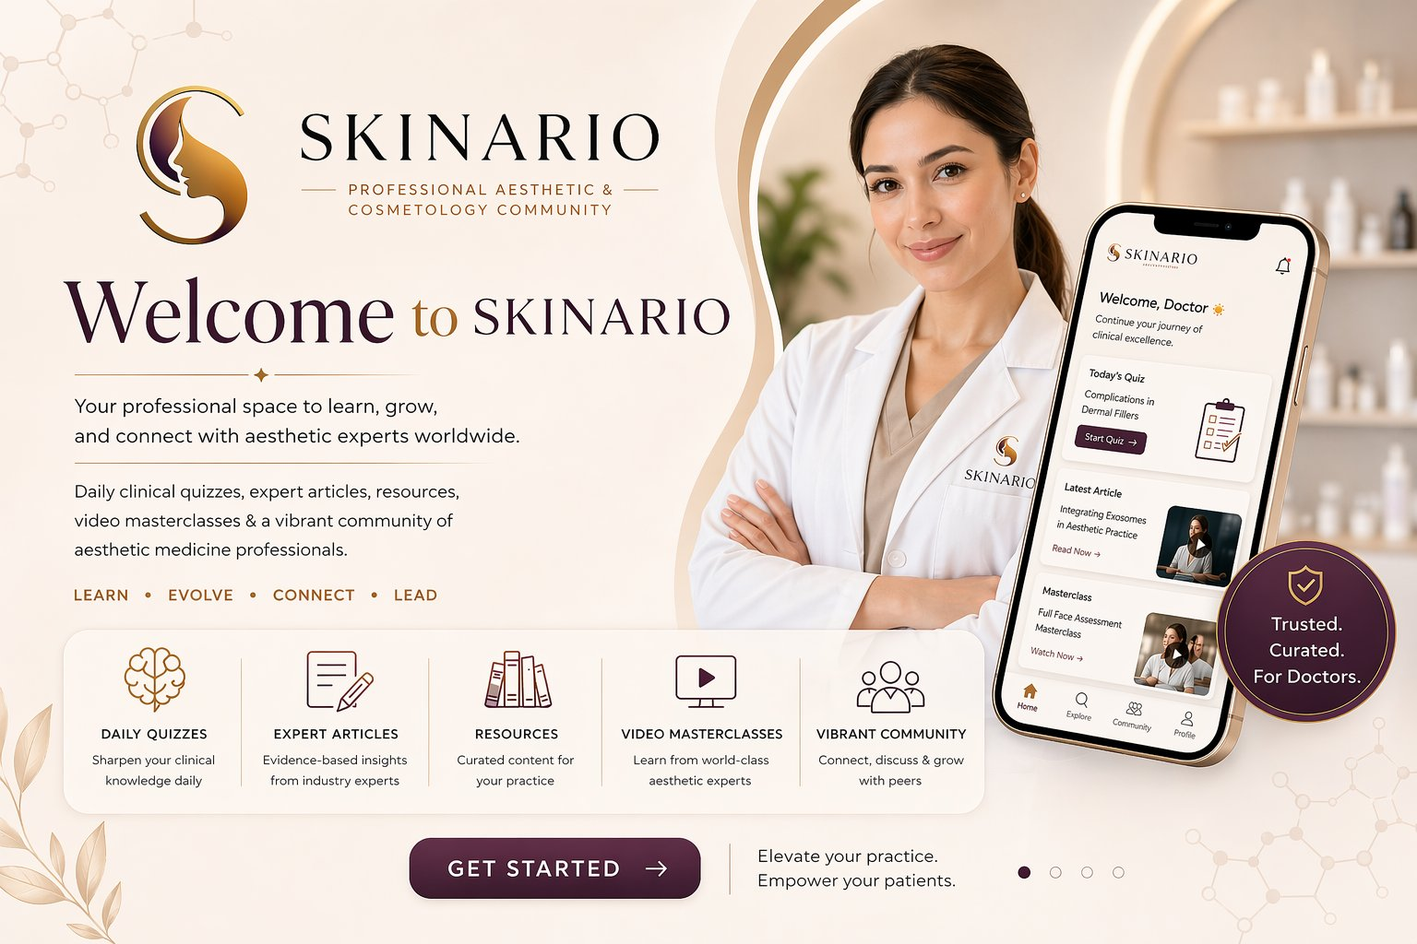
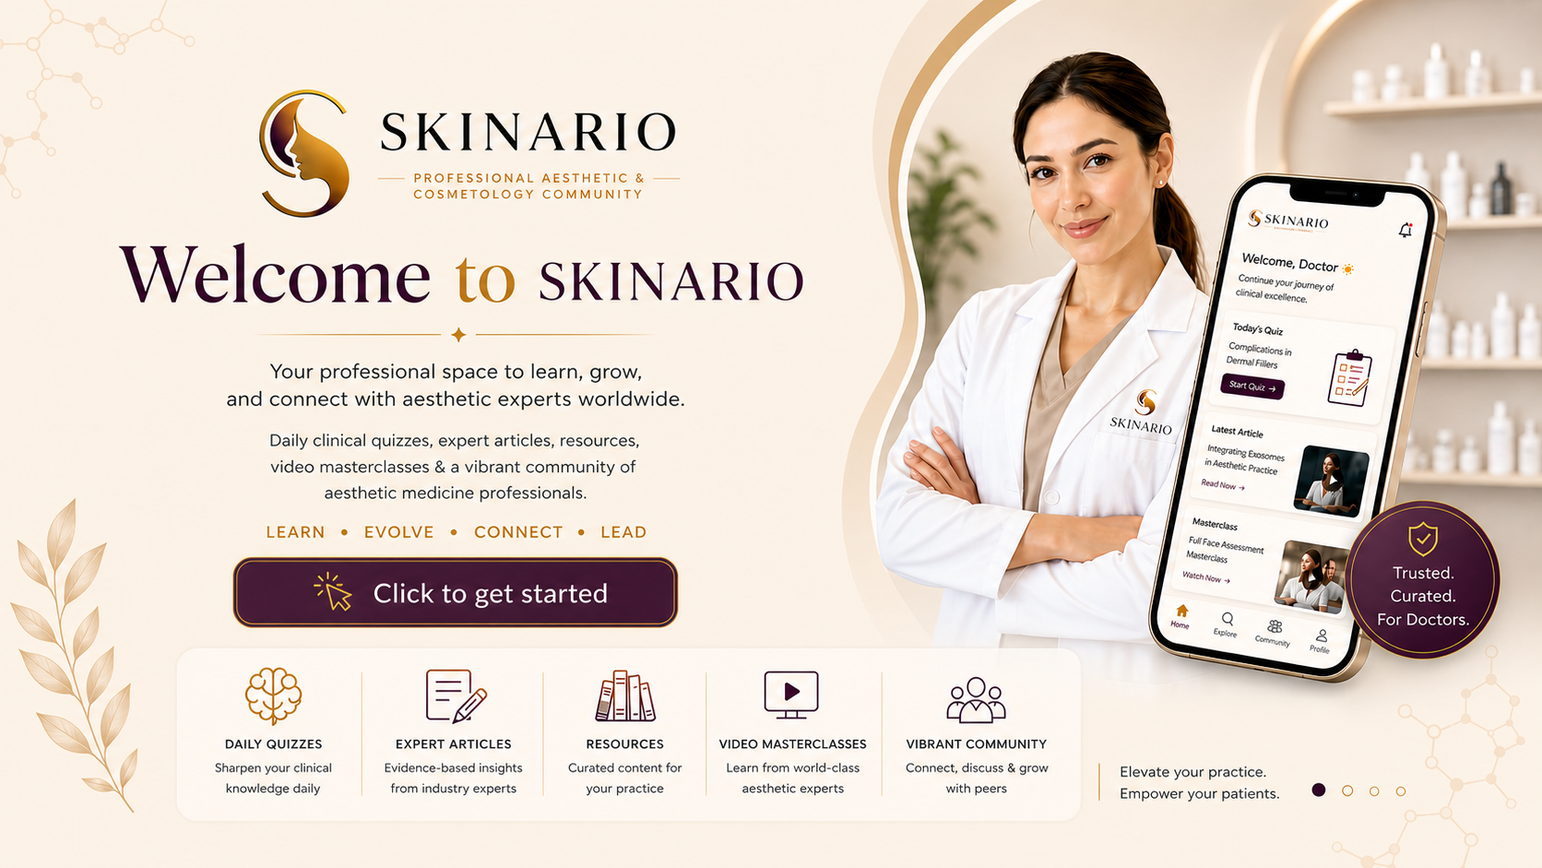
Welcome screen, image uploads, cursor fix

diff --git a/src/App.jsx b/src/App.jsx
@@ -37,7 +37,7 @@ const LikeBtn=({liked,count,onToggle})=>(
   </button>
 );
 
-// ═══ IMAGE UPLOAD COMPONENT ═══
+// ═══ MULTI-IMAGE UPLOAD (used in forum/cases) ═══
 const ImgUpload=({images,setImages,uploading,setUploading})=>{
   const fileRef=useRef();
   const handleFile=async(e)=>{
@@ -82,6 +82,61 @@ const ImgGallery=({images})=>{
   </>)
 };
 
+// ═══ ADMIN SINGLE-IMAGE FIELD (for cover/thumbnail in articles & resources) ═══
+const AdminImgField=({value,onChange})=>{
+  const fileRef=useRef();
+  const[busy,setBusy]=useState(false);
+  const handleFile=async(e)=>{
+    const f=e.target.files?.[0];if(!f)return;
+    setBusy(true);
+    try{
+      const path=`covers/${Date.now()}_${f.name}`;
+      const sRef=ref(storage,path);
+      await uploadBytes(sRef,f);
+      const url=await getDownloadURL(sRef);
+      onChange(url);
+    }catch(err){console.error("Upload error:",err);alert("Upload failed")}
+    setBusy(false);
+    if(fileRef.current)fileRef.current.value="";
+  };
+  return(<div>
+    {value&&<div style={{position:"relative",width:140,height:90,borderRadius:8,overflow:"hidden",border:"1px solid "+T.border,marginBottom:6}}>
+      <img src={value} style={{width:"100%",height:"100%",objectFit:"cover"}}/>
+      <button onClick={()=>onChange("")} style={{position:"absolute",top:3,right:3,width:20,height:20,borderRadius:"50%",background:"rgba(0,0,0,.65)",color:"#fff",border:"none",fontSize:".65rem",cursor:"pointer"}}>✕</button>
+    </div>}
+    <input ref={fileRef} type="file" accept="image/*" onChange={handleFile} style={{display:"none"}}/>
+    <button onClick={()=>fileRef.current?.click()} disabled={busy} style={{...T.btnO,...T.btnSm,opacity:busy?.5:1}}>{busy?"⏳ Uploading...":value?"🔄 Replace image":"📷 Upload image"}</button>
+  </div>)
+};
+
+// ═══ ADMIN FORM (moved outside App to fix cursor focus bug) ═══
+const AdminForm=({type,fields,edForm,setEdForm,onSave})=>{
+  const d=edForm?.data||{};
+  const set=(k,v)=>setEdForm(p=>({...p,data:{...p.data,[k]:v}}));
+  return(<div style={{...T.card,borderLeft:"3px solid "+T.teal}}>
+    <h4 style={{color:T.teal,fontWeight:700,marginBottom:12}}>{edForm?.editing?"Edit":"New"} {type}</h4>
+    {fields.map(([k,l,tp])=><div key={k} style={{marginBottom:10}}>
+      <label style={{display:"block",fontSize:".75rem",color:T.teal,marginBottom:4}}>{l}</label>
+      {tp==="textarea"?<textarea value={d[k]||""} onChange={e=>set(k,e.target.value)} style={T.txa}/>
+      :tp==="select"?<select value={d[k]||""} onChange={e=>set(k,e.target.value)} style={T.inp}>{TOPICS.map(t=><option key={t} value={t}>{t}</option>)}<option value="General">General</option></select>
+      :tp==="check"?<label style={{display:"flex",alignItems:"center",gap:6,cursor:"pointer"}}><input type="checkbox" checked={!!d[k]} onChange={e=>set(k,e.target.checked)}/> {l}</label>
+      :tp==="image"?<AdminImgField value={d[k]} onChange={url=>set(k,url)}/>
+      :<input value={d[k]||""} onChange={e=>set(k,e.target.value)} style={T.inp}/>}
+    </div>)}
+    <div style={{display:"flex",gap:8}}><button onClick={onSave} style={T.btn}>{edForm?.editing?"Update":"Create"}</button><button onClick={()=>setEdForm(null)} style={T.btnO}>Cancel</button></div>
+  </div>)
+};
+
+// ═══ CASE COMMENT INPUT (moved outside App to fix cursor focus bug) ═══
+const CaseCmtInput=({caseId,caseObj,addCaseComment})=>{
+  const[txt,setTxt]=useState("");
+  const submit=()=>{addCaseComment(caseId,caseObj,txt);setTxt("")};
+  return(<div style={{display:"flex",gap:6,marginTop:10}}>
+    <input value={txt} onChange={e=>setTxt(e.target.value)} onKeyDown={e=>e.key==="Enter"&&submit()} placeholder="Your thoughts..." style={{...T.inp,borderRadius:20,padding:"9px 14px",fontSize:".82rem",flex:1}}/>
+    <button onClick={submit} style={{...T.btn,...T.btnSm}}>Post</button>
+  </div>)
+};
+
 // ═══ FIRESTORE ═══
 const fbCol=n=>collection(db,n);
 async function fbGetAll(c,ord="date",dir="desc",lim=100){try{const q=query(fbCol(c),orderBy(ord,dir),limit(lim));const s=await getDocs(q);return s.docs.map(d=>({id:d.id,...d.data()}))}catch(e){console.log("fb",c,e);return[]}}
@@ -112,6 +167,7 @@ Return ONLY this JSON, nothing else:
 
 export default function App(){
   const[au,setAu]=useState(null);const[prof,setProf]=useState(null);const[scr,setScr]=useState("loading");const[pg,setPg]=useState("home");
+  const[welcomeSeen,setWelcomeSeen]=useState(()=>localStorage.getItem("sk_welcome")==="1");
   const[quizzes,setQuizzes]=useState([]);const[articles,setArticles]=useState([]);const[resources,setResources]=useState([]);const[videos,setVideos]=useState([]);const[forumPosts,setForumPosts]=useState([]);const[cases,setCases]=useState([]);const[allUsers,setAllUsers]=useState([]);
   const[selD,setSelD]=useState(ds(getIST()));const[selA,setSelA]=useState(null);const[selV,setSelV]=useState(null);const[toast,setToast]=useState(null);const[cmt,setCmt]=useState("");const[ld,setLd]=useState(false);const[aTab,setATab]=useState("stats");
   const[authMode,setAuthMode]=useState("signin");const[authEmail,setAuthEmail]=useState("");const[authPass,setAuthPass]=useState("");const[authName,setAuthName]=useState("");const[authBusy,setAuthBusy]=useState(false);const[authErr,setAuthErr]=useState("");
@@ -137,7 +193,7 @@ export default function App(){
   const doEmailSignup=async()=>{setAuthErr("");if(!authName.trim())return setAuthErr("Enter name");if(!authEmail.trim())return setAuthErr("Enter email");if(authPass.length<6)return setAuthErr("6+ chars");setAuthBusy(true);try{const c=await createUserWithEmailAndPassword(auth,authEmail,authPass);await updateProfile(c.user,{displayName:authName})}catch(e){setAuthErr(e.code==="auth/email-already-in-use"?"Email registered":"Failed")}setAuthBusy(false)};
   const doEmailSignin=async()=>{setAuthErr("");if(!authEmail.trim())return setAuthErr("Enter email");if(!authPass)return setAuthErr("Enter password");setAuthBusy(true);try{await signInWithEmailAndPassword(auth,authEmail,authPass)}catch(e){setAuthErr(e.code==="auth/invalid-credential"?"Wrong email/password":"Failed")}setAuthBusy(false)};
   const doForgot=async()=>{setAuthErr("");if(!authEmail.trim())return setAuthErr("Enter email");setAuthBusy(true);try{await sendPasswordResetEmail(auth,authEmail);sh("📧 Reset sent!");setAuthMode("signin")}catch{setAuthErr("Failed")}setAuthBusy(false)};
-  const doLogout=async()=>{if(confirm("Sign out?"))await signOut(auth)};
+  const doLogout=async()=>{if(confirm("Sign out?")){localStorage.removeItem("sk_welcome");setWelcomeSeen(false);await signOut(auth)}};
   const savePf=async()=>{if(!pf.degree){sh("Degree required");return}const p={name:au.displayName||authName||"Doctor",email:au.email,photo:au.photoURL||"",degree:pf.degree,clinic:pf.clinic,address:pf.address,paid:false,joined:ds(getIST()),initials:uIni,totalCorrect:0,totalAnswered:0,streak:0};await fbSet("users",au.uid,p);localStorage.setItem("sk_p_"+au.uid,JSON.stringify(p));setProf(p);setScr("main");sh("Welcome to SKINARIO!");loadData()};
 
   // ═══ LIKE TOGGLE (works for any collection) ═══
@@ -184,6 +240,17 @@ export default function App(){
 
   if(scr==="loading")return(<div style={{minHeight:"100vh",background:T.bg,display:"flex",alignItems:"center",justifyContent:"center",fontFamily:"system-ui"}}><div style={{textAlign:"center"}}><Logo size={60}/><p style={{color:T.mute,marginTop:12}}>Loading...</p></div></div>);
 
+  // ═══ WELCOME SCREEN (shown once before login — fits screen, click anywhere to enter) ═══
+  if(scr==="login"&&!welcomeSeen)return(
+    <div onClick={()=>{localStorage.setItem("sk_welcome","1");setWelcomeSeen(true)}} style={{height:"100vh",width:"100vw",background:"#f5ede2",display:"flex",alignItems:"center",justifyContent:"center",cursor:"pointer",fontFamily:"system-ui",overflow:"hidden",position:"relative"}} title="Click to enter">
+      <picture style={{display:"flex",alignItems:"center",justifyContent:"center",width:"100%",height:"100%"}}>
+        <source media="(max-width: 768px)" srcSet="/welcome-mobile.png"/>
+        <img src="/welcome-desktop.png" alt="Welcome to SKINARIO — click to enter" style={{maxWidth:"100%",maxHeight:"100%",width:"auto",height:"auto",objectFit:"contain",display:"block"}}/>
+      </picture>
+      <div style={{position:"absolute",bottom:24,right:24,background:"rgba(74,31,61,0.92)",color:"#fff",padding:"10px 22px",borderRadius:999,fontSize:".85rem",fontWeight:600,zIndex:5,pointerEvents:"none",boxShadow:"0 4px 14px rgba(0,0,0,0.2)"}}>👆 Click anywhere to enter</div>
+    </div>
+  );
+
   if(scr==="login")return(
     <div style={{minHeight:"100vh",background:"linear-gradient(160deg,#f8f7f4,#fdf6e3 40%,#e1f5ee 70%,#f8f7f4)",display:"flex",flexDirection:"column",alignItems:"center",justifyContent:"center",padding:20,fontFamily:"system-ui"}}>
       <Logo size={100}/><h1 style={{fontSize:"2.8rem",fontWeight:300,color:T.txt,marginTop:8,letterSpacing:6,fontFamily:"Georgia,serif"}}>SKINARIO</h1>
@@ -224,22 +291,6 @@ export default function App(){
   // ═══ MAIN NAV — added "Cases" section ═══
   const navs=[{id:"home",ic:"🏠",l:"Home"},{id:"quiz",ic:"🧠",l:"Quiz"},{id:"library",ic:"📚",l:"Library"},{id:"videos",ic:"🎥",l:"Videos"},{id:"cases",ic:"🔬",l:"Cases"},{id:"forum",ic:"💬",l:"Forum"},{id:"rank",ic:"🏆",l:"Rank"},{id:"me",ic:"👤",l:"Me"},...(isAdm?[{id:"admin",ic:"⚙",l:"Admin"}]:[])];
 
-  const AdminForm=({type,fields,onSave})=>{const d=edForm?.data||{};const set=(k,v)=>setEdForm(p=>({...p,data:{...p.data,[k]:v}}));
-    return(<div style={{...T.card,borderLeft:"3px solid "+T.teal}}>
-      <h4 style={{color:T.teal,fontWeight:700,marginBottom:12}}>{edForm?.editing?"Edit":"New"} {type}</h4>
-      {fields.map(([k,l,tp])=><div key={k} style={{marginBottom:10}}><label style={{display:"block",fontSize:".75rem",color:T.teal,marginBottom:4}}>{l}</label>
-        {tp==="textarea"?<textarea value={d[k]||""} onChange={e=>set(k,e.target.value)} style={T.txa}/>
-        :tp==="select"?<select value={d[k]||""} onChange={e=>set(k,e.target.value)} style={T.inp}>{TOPICS.map(t=><option key={t} value={t}>{t}</option>)}<option value="General">General</option></select>
-        :tp==="check"?<label style={{display:"flex",alignItems:"center",gap:6,cursor:"pointer"}}><input type="checkbox" checked={!!d[k]} onChange={e=>set(k,e.target.checked)}/> {l}</label>
-        :<input value={d[k]||""} onChange={e=>set(k,e.target.value)} style={T.inp}/>}</div>)}
-      <div style={{display:"flex",gap:8}}><button onClick={onSave} style={T.btn}>{edForm?.editing?"Update":"Create"}</button><button onClick={()=>setEdForm(null)} style={T.btnO}>Cancel</button></div>
-    </div>)};
-
-  // ═══ CASE COMMENT INPUT (local state per case) ═══
-  const CaseCmtInput=({caseId,caseObj})=>{const[txt,setTxt]=useState("");return(
-    <div style={{display:"flex",gap:6,marginTop:10}}><input value={txt} onChange={e=>setTxt(e.target.value)} onKeyDown={e=>{if(e.key==="Enter"){addCaseComment(caseId,caseObj,txt);setTxt("")}}} placeholder="Your thoughts..." style={{...T.inp,borderRadius:20,padding:"9px 14px",fontSize:".82rem",flex:1}}/><button onClick={()=>{addCaseComment(caseId,caseObj,txt);setTxt("")}} style={{...T.btn,...T.btnSm}}>Post</button></div>
-  )};
-
   return(
     <div style={{minHeight:"100vh",background:T.bg,fontFamily:"system-ui",color:T.txt}}>
       <div style={{position:"sticky",top:0,zIndex:100,background:"#ffffffee",backdropFilter:"blur(16px)",borderBottom:"1px solid "+T.border,padding:"6px 24px"}}>
@@ -268,15 +319,18 @@ export default function App(){
         <h3 style={{fontSize:"1.05rem",fontWeight:700,marginBottom:12}}>Latest articles</h3>
         {articles.length===0&&<p style={{color:T.mute}}>No articles yet. Admins can create them from Admin panel.</p>}
         <div style={{display:"grid",gridTemplateColumns:"1fr 1fr",gap:14}}>
-          {articles.slice(0,6).map(a=><div key={a.id} onClick={()=>setSelA(a)} style={{...T.card,cursor:"pointer",marginBottom:0}}>
-            <div style={{display:"flex",gap:5,marginBottom:8}}><span style={T.tag(T.tealBg,T.teal)}>{a.cat||"General"}</span>{a.feat&&<span style={T.tag(T.goldBg,T.goldD)}>Featured</span>}</div>
-            <h4 style={{fontSize:".95rem",fontWeight:600,lineHeight:1.4}}>{a.title}</h4>
-            <p style={{fontSize:".78rem",color:T.txt2,marginTop:6,lineHeight:1.5,display:"-webkit-box",WebkitLineClamp:2,WebkitBoxOrient:"vertical",overflow:"hidden"}}>{a.body}</p>
-            <p style={{fontSize:".72rem",color:T.mute,marginTop:6}}>{a.author||"Admin"} · {fD(a.date)}</p>
+          {articles.slice(0,6).map(a=><div key={a.id} onClick={()=>setSelA(a)} style={{...T.card,cursor:"pointer",marginBottom:0,overflow:"hidden",padding:0}}>
+            {a.cover&&<img src={a.cover} style={{width:"100%",height:140,objectFit:"cover"}}/>}
+            <div style={{padding:18}}>
+              <div style={{display:"flex",gap:5,marginBottom:8}}><span style={T.tag(T.tealBg,T.teal)}>{a.cat||"General"}</span>{a.feat&&<span style={T.tag(T.goldBg,T.goldD)}>Featured</span>}</div>
+              <h4 style={{fontSize:".95rem",fontWeight:600,lineHeight:1.4}}>{a.title}</h4>
+              <p style={{fontSize:".78rem",color:T.txt2,marginTop:6,lineHeight:1.5,display:"-webkit-box",WebkitLineClamp:2,WebkitBoxOrient:"vertical",overflow:"hidden"}}>{a.body}</p>
+              <p style={{fontSize:".72rem",color:T.mute,marginTop:6}}>{a.author||"Admin"} · {fD(a.date)}</p>
+            </div>
           </div>)}
         </div>
       </div>}
-      {pg==="home"&&selA&&<div><button onClick={()=>setSelA(null)} style={{...T.btnO,...T.btnSm,marginBottom:14}}>← Back</button><div style={{...T.card,maxWidth:720}}><span style={T.tag(T.tealBg,T.teal)}>{selA.cat}</span><h2 style={{fontSize:"1.5rem",fontWeight:700,marginTop:10,lineHeight:1.35}}>{selA.title}</h2><p style={{fontSize:".82rem",color:T.mute,marginTop:8}}>{selA.author} · {fD(selA.date)}</p><div style={{marginTop:20,fontSize:"1rem",color:T.txt2,lineHeight:1.9,whiteSpace:"pre-wrap"}}>{selA.body}</div></div></div>}
+      {pg==="home"&&selA&&<div><button onClick={()=>setSelA(null)} style={{...T.btnO,...T.btnSm,marginBottom:14}}>← Back</button><div style={{...T.card,maxWidth:720,overflow:"hidden",padding:0}}>{selA.cover&&<img src={selA.cover} style={{width:"100%",maxHeight:340,objectFit:"cover"}}/>}<div style={{padding:24}}><span style={T.tag(T.tealBg,T.teal)}>{selA.cat}</span><h2 style={{fontSize:"1.5rem",fontWeight:700,marginTop:10,lineHeight:1.35}}>{selA.title}</h2><p style={{fontSize:".82rem",color:T.mute,marginTop:8}}>{selA.author} · {fD(selA.date)}</p><div style={{marginTop:20,fontSize:"1rem",color:T.txt2,lineHeight:1.9,whiteSpace:"pre-wrap"}}>{selA.body}</div></div></div></div>}
 
       {/* QUIZ */}
       {pg==="quiz"&&<div>
@@ -311,7 +365,7 @@ export default function App(){
         {resources.length===0&&<p style={{color:T.mute}}>No resources yet.</p>}
         <div style={{display:"grid",gridTemplateColumns:"repeat(auto-fill,minmax(340px,1fr))",gap:14}}>
           {resources.map(r=><div key={r.id} style={{...T.card,display:"flex",gap:14,alignItems:"center",marginBottom:0}}>
-            <div style={{fontSize:"2rem"}}>{r.icon||"📄"}</div>
+            {r.thumb?<img src={r.thumb} style={{width:60,height:60,borderRadius:8,objectFit:"cover"}}/>:<div style={{fontSize:"2rem"}}>{r.icon||"📄"}</div>}
             <div style={{flex:1}}><h4 style={{fontSize:".9rem",fontWeight:600,lineHeight:1.3}}>{r.title||r.t}</h4><div style={{fontSize:".72rem",color:T.mute,marginTop:3}}>{r.pages?r.pages+"p · ":""}{r.size||""}</div>
               <div style={{marginTop:6}}>{r.free||isPd?<button onClick={()=>r.url?window.open(r.url,"_blank"):sh("No URL")} style={{...T.btn,...T.btnSm}}>📥 Download</button>:<button style={{...T.btnO,...T.btnSm,color:T.gold,borderColor:T.gold}}>🔒 Premium</button>}</div></div>
           </div>)}
@@ -332,7 +386,7 @@ export default function App(){
           <h3 style={{fontWeight:700,fontSize:"1.2rem"}}>{selV.title||selV.t}</h3><p style={{color:T.mute,fontSize:".82rem",marginTop:4}}>{selV.dur}</p><p style={{color:T.txt2,marginTop:12,lineHeight:1.8}}>{selV.desc}</p></div>
       </div>}
 
-      {/* ═══ CLINICAL CASES — NEW SECTION ═══ */}
+      {/* ═══ CLINICAL CASES ═══ */}
       {pg==="cases"&&<div>
         <div style={{display:"flex",justifyContent:"space-between",alignItems:"center",marginBottom:14}}>
           <div><h3 style={{fontSize:"1.15rem",fontWeight:700}}>🔬 Clinical cases</h3><p style={{color:T.mute,fontSize:".82rem",marginTop:2}}>Share cases with images for peer discussion</p></div>
@@ -361,17 +415,16 @@ export default function App(){
                 <LikeBtn liked={(cs.likedBy||[]).includes(au?.uid)} count={cs.likes||0} onToggle={()=>toggleLike("cases",cs.id,cs,setCases)}/>
                 <span style={{fontSize:".75rem",color:T.mute}}>💬 {cs.comments?.length||0} comments</span>
               </div>
-              {/* Case comments */}
               {(cs.comments||[]).length>0&&<div style={{marginTop:8,paddingLeft:10,borderLeft:"2px solid "+T.border}}>
                 {cs.comments.map((x,i)=><div key={i} style={{padding:"5px 0",fontSize:".82rem"}}><b style={{color:T.txt}}>{x.n}</b> <span style={{color:T.mute,fontSize:".6rem"}}>{x.tm}</span><div style={{color:T.txt2}}>{x.txt}</div></div>)}
               </div>}
-              <CaseCmtInput caseId={cs.id} caseObj={cs}/>
+              <CaseCmtInput caseId={cs.id} caseObj={cs} addCaseComment={addCaseComment}/>
             </div>
           </div>
         </div>)}
       </div>}
 
-      {/* FORUM with LIKES + IMAGES */}
+      {/* FORUM */}
       {pg==="forum"&&<div>
         <div style={{display:"flex",justifyContent:"space-between",alignItems:"center",marginBottom:14}}><h3 style={{fontSize:"1.15rem",fontWeight:700}}>💬 Discussion forum</h3><button onClick={()=>setNewForum(!newForum)} style={T.btn}>{newForum?"Cancel":"+ New post"}</button></div>
         {newForum&&<div style={{...T.card,borderLeft:"3px solid "+T.teal}}>
@@ -436,13 +489,13 @@ export default function App(){
         {aTab==="stats"&&<div style={T.card}><div style={{display:"grid",gridTemplateColumns:"repeat(3,1fr)",gap:10}}>{[["Articles",articles.length],["Resources",resources.length],["Videos",videos.length],["Forum",forumPosts.length],["Cases",cases.length],["Quizzes",quizzes.length],["Users",allUsers.length]].map(([l,v])=><div key={l} style={{textAlign:"center",padding:14,background:T.bg,borderRadius:10}}><div style={{fontSize:"1.4rem",fontWeight:700,color:T.teal}}>{v}</div><div style={{fontSize:".6rem",color:T.mute,textTransform:"uppercase"}}>{l}</div></div>)}</div></div>}
         {aTab==="quiz"&&<div style={T.card}><div style={{display:"flex",justifyContent:"space-between",marginBottom:12}}><span style={{color:T.mute}}>{quizzes.length} questions</span><button onClick={genQuiz} style={T.btn}>🤖 Generate today</button></div>
           {quizzes.map(q=><div key={q.id} style={{display:"flex",justifyContent:"space-between",alignItems:"center",padding:"10px 0",borderBottom:"1px solid "+T.border}}><div><div style={{fontWeight:500,fontSize:".88rem"}}>{q.cat} — {q.diff}</div><div style={{fontSize:".72rem",color:T.mute}}>{fD(q.date)} · {Object.keys(q.answers||{}).length} answers</div></div><div style={{display:"flex",gap:4}}><button onClick={()=>{setSelD(q.date);go("quiz")}} style={{...T.btnO,...T.btnSm}}>View</button><button onClick={()=>deleteContent("quizzes",q.id,q.cat)} style={T.btnDanger}>Del</button></div></div>)}</div>}
-        {aTab==="articles"&&<div style={T.card}>{edForm?.type==="articles"?<AdminForm type="Article" fields={[["title","Title"],["cat","Category","select"],["author","Author"],["date","Date (YYYY-MM-DD)"],["body","Content","textarea"],["feat","Featured","check"]]} onSave={()=>saveContent("articles")}/>
+        {aTab==="articles"&&<div style={T.card}>{edForm?.type==="articles"?<AdminForm type="Article" edForm={edForm} setEdForm={setEdForm} fields={[["title","Title"],["cat","Category","select"],["author","Author"],["date","Date (YYYY-MM-DD)"],["cover","Cover image","image"],["body","Content","textarea"],["feat","Featured","check"]]} onSave={()=>saveContent("articles")}/>
           :<><div style={{display:"flex",justifyContent:"space-between",marginBottom:12}}><span style={{color:T.mute}}>{articles.length}</span><button onClick={()=>setEdForm({type:"articles",data:{date:today,author:uName,cat:TOPICS[0]},editing:false})} style={T.btn}>+ New</button></div>
-          {articles.map(a=><div key={a.id} style={{display:"flex",justifyContent:"space-between",alignItems:"center",padding:"10px 0",borderBottom:"1px solid "+T.border}}><div><div style={{fontWeight:500,fontSize:".88rem"}}>{a.title}</div><div style={{fontSize:".72rem",color:T.mute}}>{fD(a.date)}</div></div><div style={{display:"flex",gap:4}}><button onClick={()=>setEdForm({type:"articles",data:{...a},editing:true})} style={{...T.btnO,...T.btnSm}}>Edit</button><button onClick={()=>deleteContent("articles",a.id,a.title)} style={T.btnDanger}>Del</button></div></div>)}</>}</div>}
-        {aTab==="resources"&&<div style={T.card}>{edForm?.type==="resources"?<AdminForm type="Resource" fields={[["title","Title"],["url","Download URL"],["pages","Pages"],["size","Size"],["icon","Emoji"],["free","Free","check"]]} onSave={()=>saveContent("resources")}/>
+          {articles.map(a=><div key={a.id} style={{display:"flex",justifyContent:"space-between",alignItems:"center",padding:"10px 0",borderBottom:"1px solid "+T.border}}><div style={{display:"flex",gap:10,alignItems:"center"}}>{a.cover&&<img src={a.cover} style={{width:50,height:36,objectFit:"cover",borderRadius:6}}/>}<div><div style={{fontWeight:500,fontSize:".88rem"}}>{a.title}</div><div style={{fontSize:".72rem",color:T.mute}}>{fD(a.date)}</div></div></div><div style={{display:"flex",gap:4}}><button onClick={()=>setEdForm({type:"articles",data:{...a},editing:true})} style={{...T.btnO,...T.btnSm}}>Edit</button><button onClick={()=>deleteContent("articles",a.id,a.title)} style={T.btnDanger}>Del</button></div></div>)}</>}</div>}
+        {aTab==="resources"&&<div style={T.card}>{edForm?.type==="resources"?<AdminForm type="Resource" edForm={edForm} setEdForm={setEdForm} fields={[["title","Title"],["url","Download URL"],["pages","Pages"],["size","Size"],["icon","Emoji (fallback)"],["thumb","Thumbnail image","image"],["free","Free","check"]]} onSave={()=>saveContent("resources")}/>
           :<><div style={{display:"flex",justifyContent:"space-between",marginBottom:12}}><span style={{color:T.mute}}>{resources.length}</span><button onClick={()=>setEdForm({type:"resources",data:{icon:"📄",free:true},editing:false})} style={T.btn}>+ New</button></div>
-          {resources.map(r=><div key={r.id} style={{display:"flex",justifyContent:"space-between",alignItems:"center",padding:"10px 0",borderBottom:"1px solid "+T.border}}><div><div style={{fontWeight:500,fontSize:".88rem"}}>{r.icon||"📄"} {r.title||r.t}</div><div style={{fontSize:".72rem",color:T.mute}}>{r.free?"Free":"Premium"}</div></div><div style={{display:"flex",gap:4}}><button onClick={()=>setEdForm({type:"resources",data:{...r},editing:true})} style={{...T.btnO,...T.btnSm}}>Edit</button><button onClick={()=>deleteContent("resources",r.id,r.title||r.t)} style={T.btnDanger}>Del</button></div></div>)}</>}</div>}
-        {aTab==="videos"&&<div style={T.card}>{edForm?.type==="videos"?<AdminForm type="Video" fields={[["title","Title"],["cat","Category","select"],["dur","Duration"],["desc","Description","textarea"],["embedUrl","Embed URL"],["icon","Emoji"],["free","Free","check"]]} onSave={()=>saveContent("videos")}/>
+          {resources.map(r=><div key={r.id} style={{display:"flex",justifyContent:"space-between",alignItems:"center",padding:"10px 0",borderBottom:"1px solid "+T.border}}><div style={{display:"flex",gap:10,alignItems:"center"}}>{r.thumb?<img src={r.thumb} style={{width:36,height:36,objectFit:"cover",borderRadius:6}}/>:<span style={{fontSize:"1.4rem"}}>{r.icon||"📄"}</span>}<div><div style={{fontWeight:500,fontSize:".88rem"}}>{r.title||r.t}</div><div style={{fontSize:".72rem",color:T.mute}}>{r.free?"Free":"Premium"}</div></div></div><div style={{display:"flex",gap:4}}><button onClick={()=>setEdForm({type:"resources",data:{...r},editing:true})} style={{...T.btnO,...T.btnSm}}>Edit</button><button onClick={()=>deleteContent("resources",r.id,r.title||r.t)} style={T.btnDanger}>Del</button></div></div>)}</>}</div>}
+        {aTab==="videos"&&<div style={T.card}>{edForm?.type==="videos"?<AdminForm type="Video" edForm={edForm} setEdForm={setEdForm} fields={[["title","Title"],["cat","Category","select"],["dur","Duration"],["desc","Description","textarea"],["embedUrl","Embed URL"],["icon","Emoji"],["free","Free","check"]]} onSave={()=>saveContent("videos")}/>
           :<><div style={{display:"flex",justifyContent:"space-between",marginBottom:12}}><span style={{color:T.mute}}>{videos.length}</span><button onClick={()=>setEdForm({type:"videos",data:{icon:"🎥",free:true,cat:TOPICS[0]},editing:false})} style={T.btn}>+ New</button></div>
           {videos.map(v=><div key={v.id} style={{display:"flex",justifyContent:"space-between",alignItems:"center",padding:"10px 0",borderBottom:"1px solid "+T.border}}><div><div style={{fontWeight:500,fontSize:".88rem"}}>{v.title||v.t}</div><div style={{fontSize:".72rem",color:T.mute}}>{v.cat} · {v.free?"Free":"Premium"}</div></div><div style={{display:"flex",gap:4}}><button onClick={()=>setEdForm({type:"videos",data:{...v},editing:true})} style={{...T.btnO,...T.btnSm}}>Edit</button><button onClick={()=>deleteContent("videos",v.id,v.title||v.t)} style={T.btnDanger}>Del</button></div></div>)}</>}</div>}
         {aTab==="users"&&<div style={T.card}><p style={{color:T.mute,fontSize:".82rem",marginBottom:10}}>{allUsers.length} users</p>
